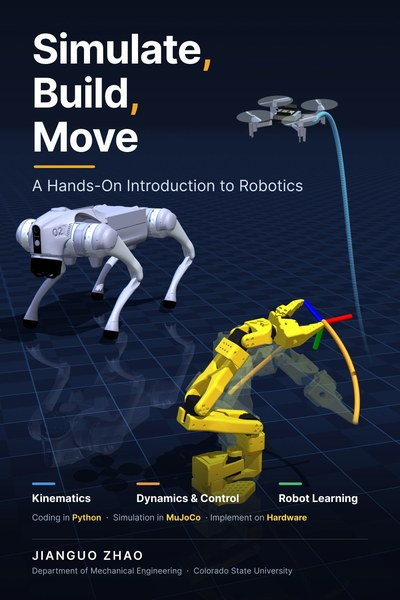
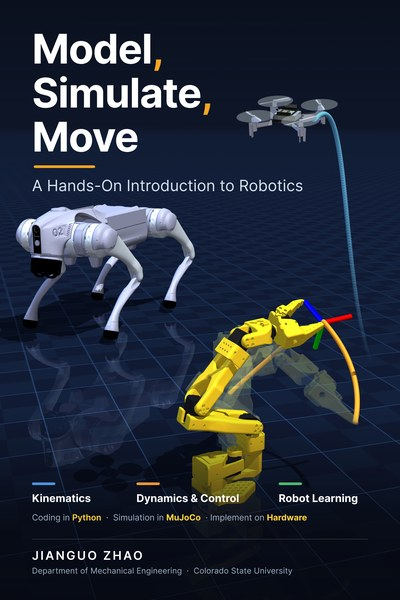
Update book title to Model, Simulate, Move

Changed region(s): [[0.06, 0.03, 0.54, 0.21]]

diff --git a/_pages/teaching.html b/_pages/teaching.html
@@ -10,12 +10,12 @@ author_profile: true
 <div class="notice--info" style="display: flex; flex-wrap: wrap; gap: 1.5em; align-items: flex-start;">
   <a href="https://jianguozhaorobotics.github.io/RoboticsBook/" style="flex: 0 0 auto;">
     <img src="{{ base_path }}/images/robotics-book-cover.jpg"
-         alt="Cover of the book Simulate, Build, Move: A Hands-On Introduction to Robotics"
+         alt="Cover of the book Model, Simulate, Move: A Hands-On Introduction to Robotics"
          style="width: 160px; border-radius: 6px; box-shadow: 0 2px 8px rgba(0, 0, 0, 0.25);">
   </a>
   <div style="flex: 1 1 260px;">
     <h4 style="margin-top: 0;">New Online Book</h4>
-    <p><strong><a href="https://jianguozhaorobotics.github.io/RoboticsBook/">Simulate, Build, Move: A Hands-On Introduction to Robotics</a></strong></p>
+    <p><strong><a href="https://jianguozhaorobotics.github.io/RoboticsBook/">Model, Simulate, Move: A Hands-On Introduction to Robotics</a></strong></p>
     <p>A free, interactive textbook that pairs robotics theory with Python code, MuJoCo simulation, and real hardware. Part I (Kinematics) is available now. Part II (Dynamics &amp; Control) and Part III (Robot Learning) are in development.</p>
     <p><a href="https://jianguozhaorobotics.github.io/RoboticsBook/" class="btn btn--primary">Read the book</a></p>
   </div>

diff --git a/_teaching/MECH416.md b/_teaching/MECH416.md
@@ -16,4 +16,4 @@ location: "Fort Collins, CO"
 
 An introduction to robotic manipulators that combines theory with hands-on practice. Topics include robot actuators, rigid-body transformations, forward and inverse kinematics, velocity kinematics and the Jacobian, and trajectory generation.
 
-Each topic is implemented in Python, tested in MuJoCo simulation, and then run on real hardware: students build and program a planar 2R arm from smart servo motors and control the open-source SO-101 robot arm. The course uses the online book *Simulate, Build, Move: A Hands-On Introduction to Robotics*.
+Each topic is implemented in Python, tested in MuJoCo simulation, and then run on real hardware: students build and program a planar 2R arm from smart servo motors and control the open-source SO-101 robot arm. The course uses the online book *Model, Simulate, Move: A Hands-On Introduction to Robotics*.
